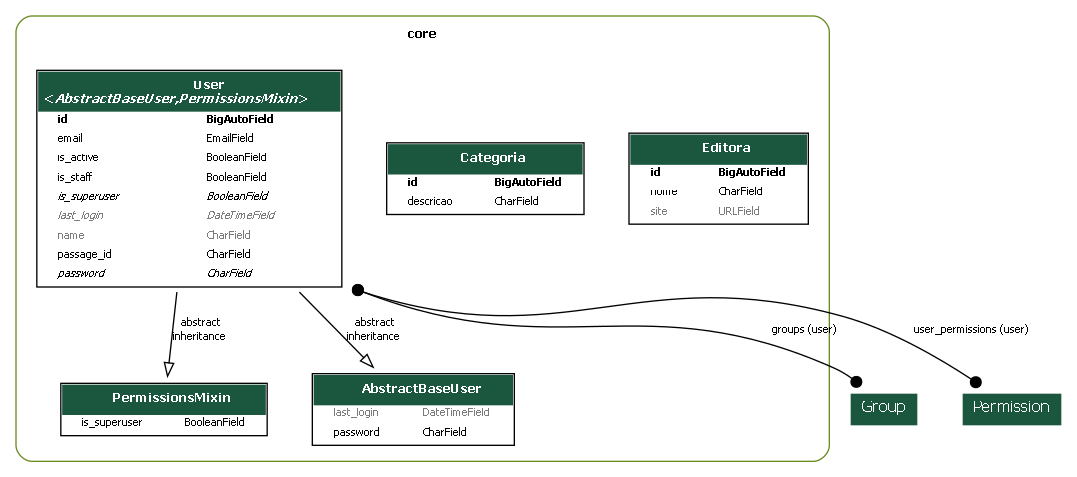
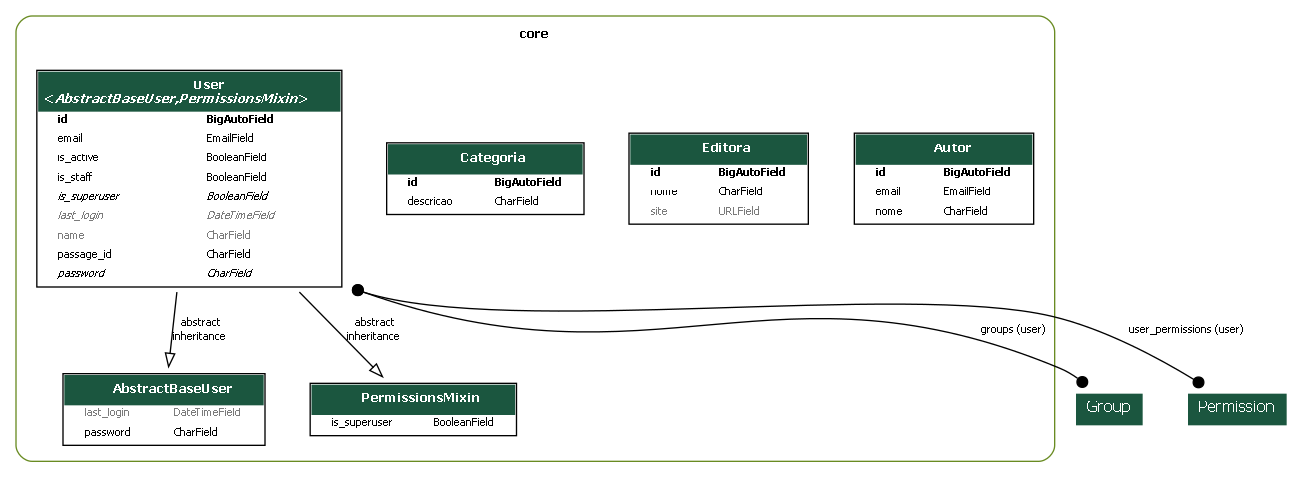
Criação da API para Autor

diff --git a/core/migrations/0007_autor.py b/core/migrations/0007_autor.py
@@ -1,0 +1,21 @@
+# Generated by Django 5.1.7 on 2025-03-26 03:07
+
+from django.db import migrations, models
+
+
+class Migration(migrations.Migration):
+
+    dependencies = [
+        ('core', '0006_editora'),
+    ]
+
+    operations = [
+        migrations.CreateModel(
+            name='Autor',
+            fields=[
+                ('id', models.BigAutoField(auto_created=True, primary_key=True, serialize=False, verbose_name='ID')),
+                ('nome', models.CharField(max_length=100)),
+                ('email', models.EmailField(max_length=100, null=True)),
+            ],
+        ),
+    ]

diff --git a/app/urls.py b/app/urls.py
@@ -7,10 +7,11 @@ from drf_spectacular.views import (
 )
 from rest_framework.routers import DefaultRouter
 
-from core.views import UserViewSet, CategoriaViewSet, EditoraViewSet
+from core.views import AutorViewSet, UserViewSet, CategoriaViewSet, EditoraViewSet
 
 
 router = DefaultRouter()
+router.register(r"autores", AutorViewSet)
 router.register(r"categorias", CategoriaViewSet)
 router.register(r"editoras", EditoraViewSet)
 router.register(r'usuarios', UserViewSet, basename='usuarios')

diff --git a/core/views/autor.py b/core/views/autor.py
@@ -1,0 +1,8 @@
+from rest_framework.viewsets import ModelViewSet
+
+from core.models import Autor
+from core.serializers import AutorSerializer
+
+class AutorViewSet(ModelViewSet):
+    queryset = Autor.objects.all()
+    serializer_class = AutorSerializer

diff --git a/core/models/autor.py b/core/models/autor.py
@@ -1,0 +1,9 @@
+from django.db import models
+
+class Autor(models.Model):
+    nome = models.CharField(max_length=100)
+    email = models.EmailField(max_length=100, null=True)
+    
+    def __str__(self):
+        return self.nome
+    

diff --git a/core/serializers/autor.py b/core/serializers/autor.py
@@ -1,0 +1,9 @@
+from rest_framework.serializers import ModelSerializer
+from core.models import Autor
+
+class AutorSerializer(ModelSerializer):
+    class Meta:
+        model = Autor
+        fields = "__all__"
+        
+    

diff --git a/core/admin.py b/core/admin.py
@@ -54,3 +54,4 @@ class UserAdmin(BaseUserAdmin):
 admin.site.register(models.User, UserAdmin)
 admin.site.register(models.Categoria)
 admin.site.register(models.Editora)
+admin.site.register(models.Autor)

diff --git a/core/serializers/__init__.py b/core/serializers/__init__.py
@@ -2,3 +2,4 @@ from .user import UserSerializer
 
 from .categoria import CategoriaSerializer
 from .editora import EditoraSerializer
+from .autor import AutorSerializer

diff --git a/core/views/__init__.py b/core/views/__init__.py
@@ -1,3 +1,4 @@
 from .user import UserViewSet
 from .categoria import CategoriaViewSet
 from .editora import EditoraViewSet
+from .autor import AutorViewSet

diff --git a/core/models/__init__.py b/core/models/__init__.py
@@ -1,3 +1,4 @@
 from .user import User
 from .categoria import Categoria
 from .editora import Editora
+from .autor import Autor
